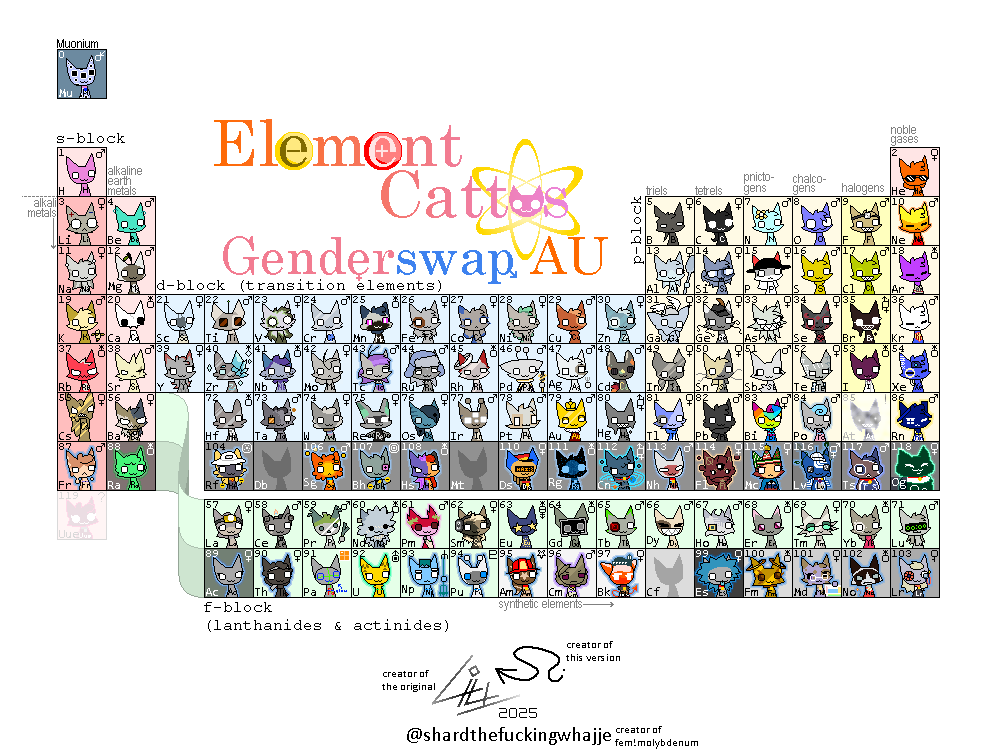
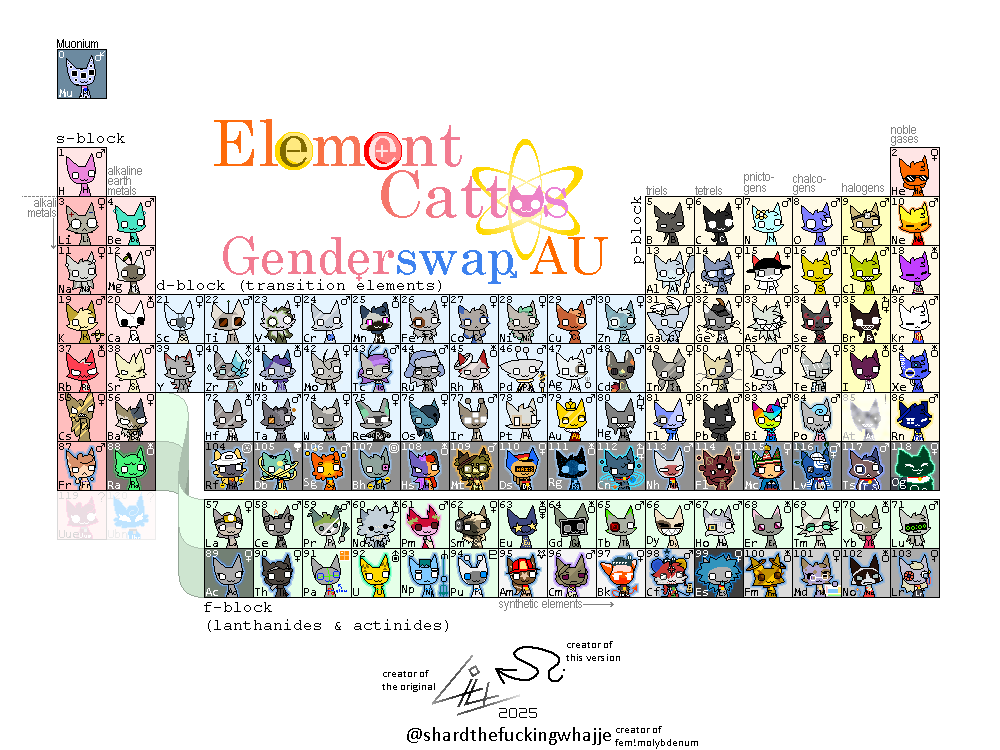
Update

diff --git a/commands.py b/commands.py
@@ -83,7 +83,7 @@ class CommandCog(commands.Cog, name = "Commands"):
                 element.name in ("Testosterone", "Estrogen") 
             ):
                 parts = pronouns.split("/")
-                table = {"he": "she", "him": "her", "she": "he", "her": "him", "hse": "eh", "ehr": "ihm", "him...?": "her...?"}
+                table = {"he": "she", "him": "her", "she": "he", "her": "him", "hse": "eh", "ehr": "ihm", "him...?": "her...?", "him*": "her*", "trim": "ter"}
                 pronouns = "/".join(table.get(part, part) for part in parts)
             emb.add_field(name="Pronouns", value=pronouns)
             emb.add_field(name="Author", value=element.author, inline = False)
